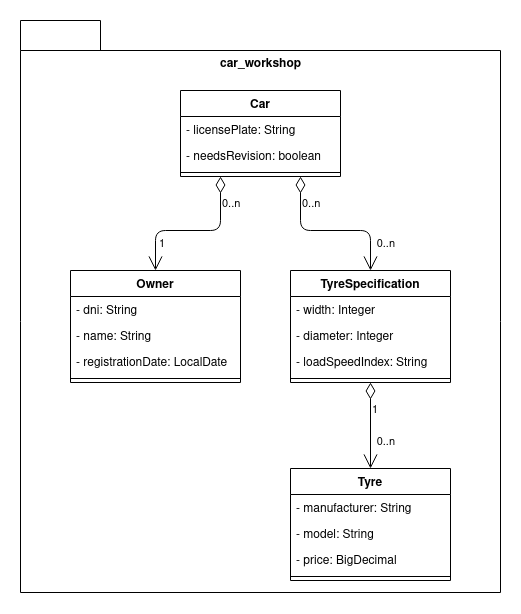
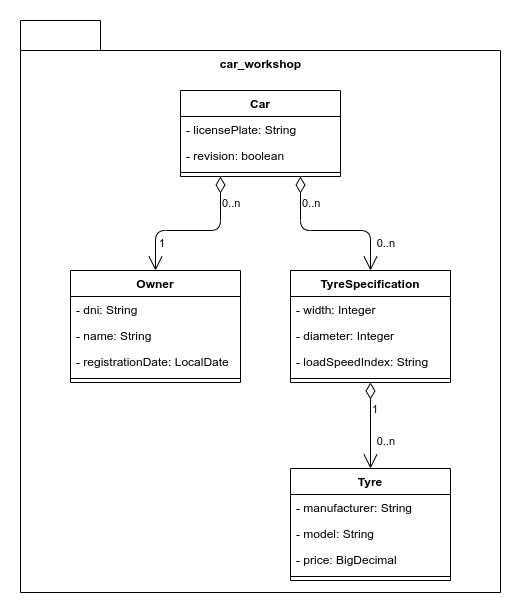
Update UML #19

diff --git a/src/main/java/es/upm/miw/apaw_practice/domain/models/car_workshop/Car.java b/src/main/java/es/upm/miw/apaw_practice/domain/models/car_workshop/Car.java
@@ -45,10 +45,6 @@ public class Car {
         this.owner = owner;
     }
 
-    public Boolean getNeedsRevision() {
-        return revision;
-    }
-
     public List<TyreSpecification> getTyreSpecs() {
         return tyreSpecs;
     }
